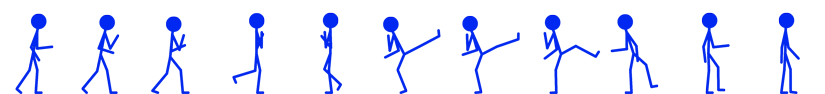
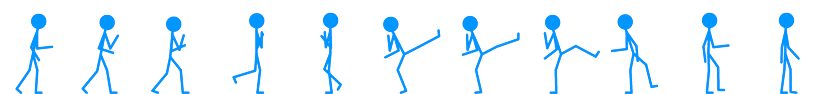
update color scheme

diff --git a/project/Master.cpp b/project/Master.cpp
@@ -58,7 +58,7 @@ void Master::play() {
     int notOnGround = checkGround(&person, &level1);
     while (notOnGround) { // continue until player hits ground or edge of board
         // updateCamera();
-        person.setYPos(person.getYPos() + 7); // shift player down
+        person.setYPos(person.getYPos() + 2); // shift player down
         notOnGround = checkGround(&person, &level1);
         update();
     }
@@ -160,9 +160,9 @@ void Master::play() {
                 person.setJumpDir(0);
                 person.setJumpHeight(0);
                 speed = 30;
-                while (moveFigure(0,5) == 1);
+                while (moveFigure(0,5) == 1); // move to ground if above ground
             }
-            else { // can still jump down
+            else { // if can still jump down
                 moveFigure(0,changeY);
             }
         }
@@ -329,9 +329,9 @@ int Master::checkCollision(Person *person, Level1 *level) {
                 if (alpha > 0) { // collision
                     // assume collision side
                     // cout << "Collision" << endl;
-                    if (y<25) // hit top
+                    if (y < 25) // hit top
                         return 2;
-                    else if(x<37) // hit left 
+                    else if(x < 37) // hit left 
                         return 3;
                     else // hit right
                         return 1;
@@ -354,10 +354,10 @@ int Master::checkGround(Person *person, Level1 *level1) {
     alpha = level1->getForeground()->getAlpha(pixel);
 
     Uint8 beta;
-    beta = level1->getForeground()->getAlpha(abovePixel);    
+    beta = level1->getForeground()->getAlpha(abovePixel);
     if(int(alpha) < 10) // transparent pixel; is in air
         return 1;
-    if(int(beta) > 10) // pixel is not transparent   
+    if(int(beta) > 10) // pixel is not transparent
         return 2;
 
     return 0;

diff --git a/project/Level1.cpp b/project/Level1.cpp
@@ -3,7 +3,6 @@
 // Project: Breaking Blue
 // Authors: Kate Barlock, Kat Herring, Ann Keenan
 
-
 #include "Level1.h"
 
 using namespace std;
@@ -15,7 +14,7 @@ Level1::Level1() {
 Level1::~Level1() {}
 
 void Level1::loadMedia() {
-    Levels::setBackground(Levels::loadTexture("imgs/lvls/level1_final.png"));
-    Levels::setForeground("imgs/lvls/level1.png");
+    Levels::setBackground(Levels::loadTexture("imgs/bg/level1.png"));
+    Levels::setForeground("imgs/fg/level1.png");
     Levels::setMusic(Mix_LoadMUS("sound/intro.wav"));
 }

diff --git a/project/Levels.h b/project/Levels.h
@@ -3,7 +3,6 @@
 // Project: Breaking Blue
 // Authors: Kate Barlock, Kat Herring, Ann Keenan
 
-
 #ifndef _LEVELS
 #define _LEVELS
 
